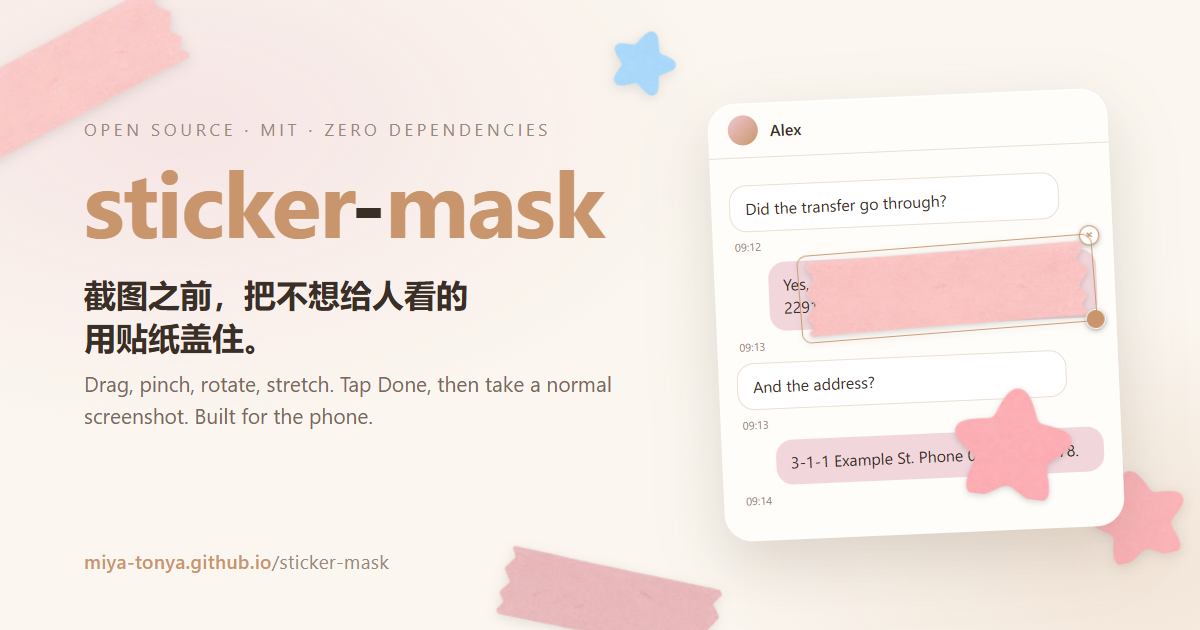
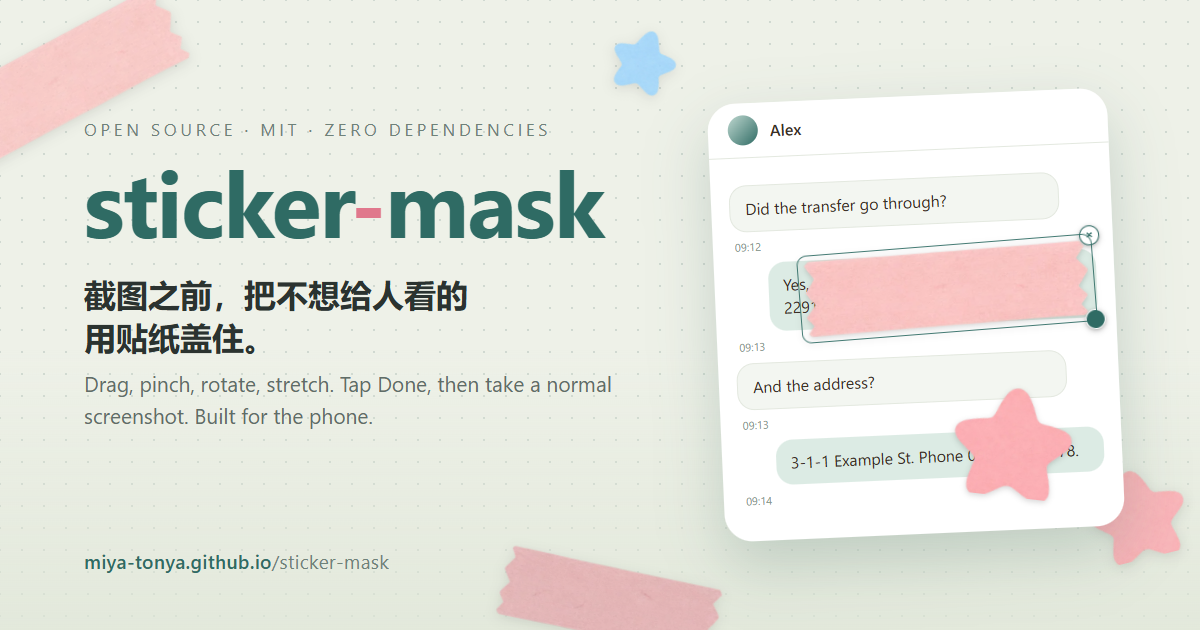
Cover: sage paper with dot grid, teal title

diff --git a/docs/cover.html b/docs/cover.html
@@ -5,34 +5,34 @@
 <title>sticker-mask cover</title>
 <style>
   html, body { margin: 0; }
-  body { width: 1200px; height: 630px; overflow: hidden; background: #fbf6ef; font-family: "Segoe UI", "PingFang SC", "Hiragino Sans", "Microsoft YaHei", -apple-system, sans-serif; color: #3a2f26; position: relative; }
+  body { width: 1200px; height: 630px; overflow: hidden; background: #eef1e8; font-family: "Segoe UI", "PingFang SC", "Hiragino Sans", "Microsoft YaHei", -apple-system, sans-serif; color: #3a2f26; position: relative; }
   /* soft paper texture: two faint radial washes */
-  .wash { position: absolute; inset: 0; background:
-    radial-gradient(900px 500px at 15% 20%, rgba(241, 215, 220, 0.55), transparent 60%),
-    radial-gradient(700px 420px at 95% 90%, rgba(200, 149, 108, 0.18), transparent 60%); }
+  /* sage paper with a faint dot grid */
+  .wash { position: absolute; inset: 0; background-image: radial-gradient(rgba(47, 90, 84, 0.16) 1.2px, transparent 1.3px); background-size: 22px 22px; background-position: 11px 11px; }
+  .wash::after { content: ""; position: absolute; inset: 0; background: linear-gradient(180deg, rgba(238,241,232,0) 55%, rgba(222,229,214,0.7) 100%); }
   .left { position: absolute; left: 84px; top: 118px; width: 560px; }
-  .kicker { font-size: 17px; letter-spacing: 0.22em; color: #9a8878; text-transform: uppercase; }
-  h1 { margin: 14px 0 0; font-size: 92px; line-height: 1; font-weight: 700; letter-spacing: -0.02em; color: #c8956c; }
-  h1 span { color: #3a2f26; }
-  .zh { margin-top: 26px; font-size: 32px; font-weight: 600; line-height: 1.35; }
-  .en { margin-top: 10px; font-size: 21px; line-height: 1.5; color: #7a685a; }
-  .url { position: absolute; left: 84px; bottom: 56px; font-size: 19px; color: #9a8878; letter-spacing: 0.02em; }
-  .url b { color: #c8956c; font-weight: 600; }
+  .kicker { font-size: 17px; letter-spacing: 0.22em; color: #6f8279; text-transform: uppercase; }
+  h1 { margin: 14px 0 0; font-size: 92px; line-height: 1; font-weight: 700; letter-spacing: -0.02em; color: #2f6b64; }
+  h1 span { color: #e0788c; }
+  .zh { margin-top: 26px; font-size: 32px; font-weight: 600; line-height: 1.35; color: #2b3330; }
+  .en { margin-top: 10px; font-size: 21px; line-height: 1.5; color: #5f6d68; }
+  .url { position: absolute; left: 84px; bottom: 56px; font-size: 19px; color: #6f8279; letter-spacing: 0.02em; }
+  .url b { color: #2f6b64; font-weight: 600; }
   /* chat card */
-  .card { position: absolute; right: 84px; top: 96px; width: 400px; height: 438px; background: #fffdf9; border-radius: 28px; box-shadow: 0 24px 60px rgba(90, 74, 58, 0.18), 0 2px 0 rgba(255,255,255,0.8) inset; transform: rotate(-2.5deg); overflow: hidden; }
-  .bar { height: 54px; display: flex; align-items: center; gap: 12px; padding: 0 20px; border-bottom: 1px solid #eadfd2; }
-  .avatar { width: 30px; height: 30px; border-radius: 50%; background: linear-gradient(135deg, #f1c7d0, #c8956c); }
+  .card { position: absolute; right: 84px; top: 96px; width: 400px; height: 438px; background: #ffffff; border-radius: 28px; box-shadow: 0 24px 60px rgba(47, 90, 84, 0.22), 0 2px 0 rgba(255,255,255,0.8) inset; transform: rotate(-2.5deg); overflow: hidden; }
+  .bar { height: 54px; display: flex; align-items: center; gap: 12px; padding: 0 20px; border-bottom: 1px solid #e3e8df; }
+  .avatar { width: 30px; height: 30px; border-radius: 50%; background: linear-gradient(135deg, #bfd8d0, #2f6b64); }
   .name { font-size: 16px; font-weight: 600; }
   .msgs { padding: 18px 18px 0; }
   .msg { max-width: 82%; padding: 11px 15px; border-radius: 17px; margin: 9px 0; font-size: 16px; line-height: 1.45; position: relative; }
-  .them { background: #fff; border: 1px solid #eadfd2; }
-  .me { margin-left: auto; background: #f1d7dc; }
-  .time { font-size: 11px; color: #9a8878; margin: -2px 0 2px 4px; }
+  .them { background: #f3f6f1; border: 1px solid #e3e8df; }
+  .me { margin-left: auto; background: #dcebe4; }
+  .time { font-size: 11px; color: #8a978f; margin: -2px 0 2px 4px; }
   /* stickers on the card */
   .st { position: absolute; filter: drop-shadow(0 2px 3px rgba(0,0,0,0.16)); }
-  .st.sel::after { content: ""; position: absolute; inset: -6px; border: 1.5px solid rgba(200,149,108,0.9); border-radius: 10px; }
-  .dot { position: absolute; width: 18px; height: 18px; border-radius: 50%; background: #c8956c; border: 1.5px solid #fff; box-shadow: 0 1px 4px rgba(0,0,0,0.25); }
-  .x { position: absolute; width: 18px; height: 18px; border-radius: 50%; background: #fff; border: 1.5px solid #c8956c; box-shadow: 0 1px 4px rgba(0,0,0,0.2); font: 700 12px/15px "Segoe UI", sans-serif; color: #c8956c; text-align: center; }
+  .st.sel::after { content: ""; position: absolute; inset: -6px; border: 1.5px solid rgba(47,107,100,0.9); border-radius: 10px; }
+  .dot { position: absolute; width: 18px; height: 18px; border-radius: 50%; background: #2f6b64; border: 1.5px solid #fff; box-shadow: 0 1px 4px rgba(0,0,0,0.25); }
+  .x { position: absolute; width: 18px; height: 18px; border-radius: 50%; background: #fff; border: 1.5px solid #2f6b64; box-shadow: 0 1px 4px rgba(0,0,0,0.2); font: 700 12px/15px "Segoe UI", sans-serif; color: #2f6b64; text-align: center; }
   /* decorative tapes */
   .deco { position: absolute; opacity: 0.9; filter: drop-shadow(0 3px 6px rgba(0,0,0,0.12)); }
 </style>
